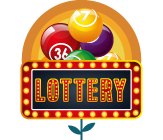
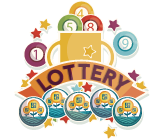
new lottery image and lottery menu

diff --git a/src/components/Menu/config.ts b/src/components/Menu/config.ts
@@ -31,9 +31,9 @@ const config: MenuEntry[] = [
     href: '/nests',
   },
   {
-    label: 'Lottery (Coming Soon)',
+    label: 'Lottery',
     icon: 'TicketIcon',
-    href: '#'
+    href: '/lottery'
   },
   {
     label: 'Buy BBKFI',
